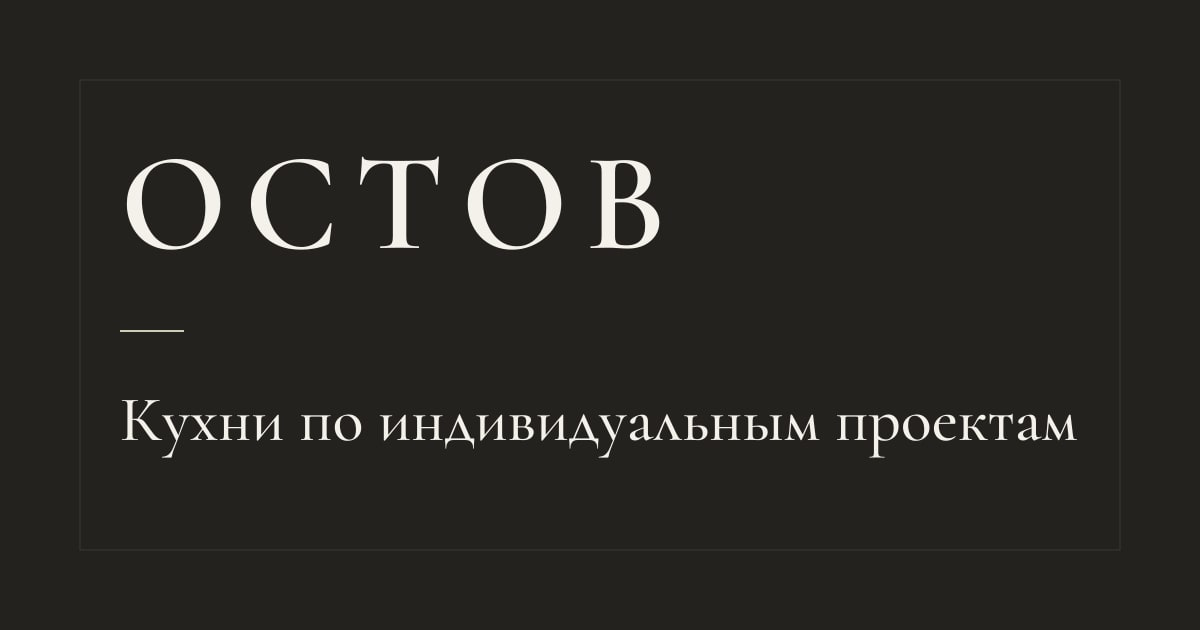
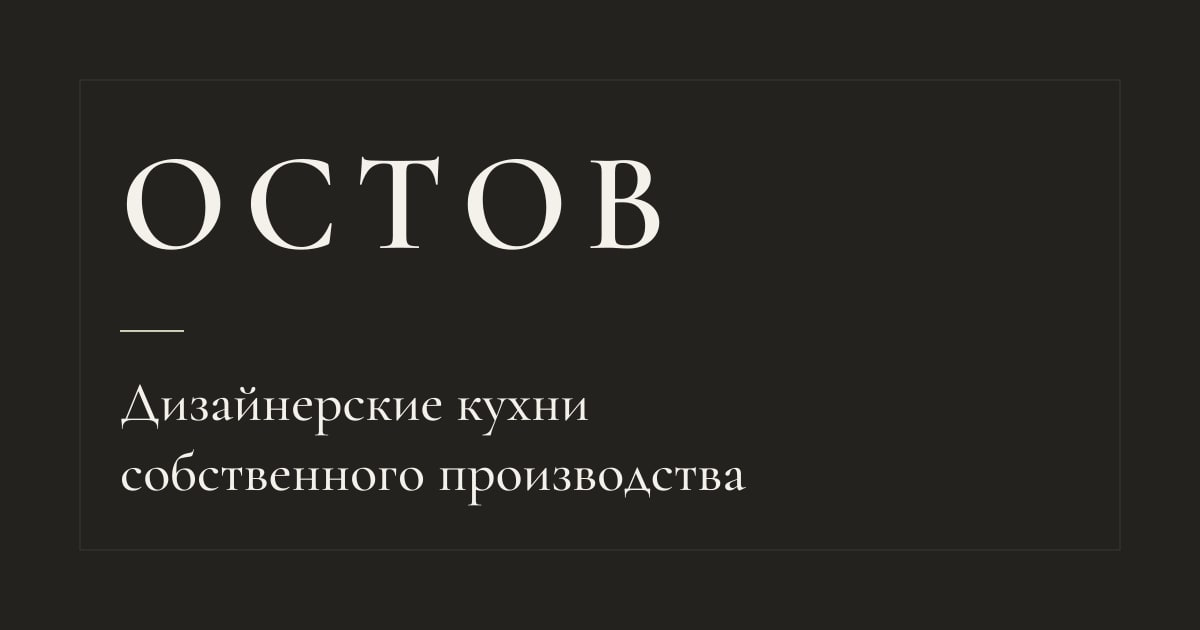
feat: hero headline «Дизайнерские кухни собственного производства»

Changed region(s): [[0.0925, 0.6032, 0.8942, 0.7841]]

diff --git a/src/styles/tokens.css b/src/styles/tokens.css
@@ -24,7 +24,7 @@
   /* Typography */
   --font-serif: 'Cormorant Garamond', 'Times New Roman', Georgia, serif;
   --font-sans: 'Manrope', system-ui, -apple-system, 'Segoe UI', Roboto, Arial, sans-serif;
-  --fs-h1: clamp(2.5rem, min(2.99rem + 4.14vw, 12.8vw - 0.2rem), 6.325rem); /* +15% от прежних 56–88 px; на телефоне ограничен шириной слова «индивидуальным»: 43 px (360), 47 px (390), 80 px (768), 101 px (от ~1390) */
+  --fs-h1: clamp(2.5rem, min(2.99rem + 4.14vw, 16vw - 0.27rem), 6.325rem); /* +15% от прежних 56–88 px; на телефоне ограничен шириной слова «Дизайнерские»: 53 px (360), 58 px (390), 80 px (768), 101 px (от ~1390) */
   --fs-h2: clamp(2.25rem, 1.4rem + 3.45vw, 4.5rem); /* 36 px до 390, 49 на 768, 66 на 1280, 72 от 1440 */
   --fs-h3: clamp(1.375rem, 1.2rem + 0.6vw, 1.75rem); /* 22–28 px */
   --fs-body: clamp(1rem, 0.94rem + 0.25vw, 1.125rem); /* 16–18 px */

diff --git a/tests/unit/i18n.test.ts b/tests/unit/i18n.test.ts
@@ -5,8 +5,8 @@ const flat = (o: object, p = ''): Record<string,string> => Object.entries(o).red
 test('одинаковые ключи', () => expect(Object.keys(flat(en)).sort()).toEqual(Object.keys(flat(ru)).sort()));
 test('нет пустых строк', () => { for (const d of [ru, en]) for (const v of Object.values(flat(d))) expect(v.trim()).not.toBe(''); });
 test('ключевые строки', () => {
-  expect(ru.hero.title).toBe('Кухни по индивидуальным проектам');
-  expect(en.hero.title).toBe('Kitchens made to individual designs');
+  expect(ru.hero.title).toBe('Дизайнерские кухни собственного производства');
+  expect(en.hero.title).toBe('Designer kitchens from our own workshop');
   expect(ru.footer.rights).toBe('© 2026 ООО «Остов». Все права защищены.');
   expect(en.footer.rights).toBe('© 2026 Ostov LLC. All rights reserved.');
 });

diff --git a/src/i18n/ru.ts b/src/i18n/ru.ts
@@ -26,7 +26,7 @@ export const ru: Dict = {
     langEn: 'EN',
   },
   hero: {
-    title: 'Кухни по индивидуальным проектам',
+    title: 'Дизайнерские кухни собственного производства',
     subtitle: 'Собственная мастерская под Калугой. Массив, камень, металл. 12 лет, 240 проектов.',
     cta: 'Обсудить проект',
     secondary: 'Смотреть проекты',

diff --git a/src/i18n/en.ts b/src/i18n/en.ts
@@ -26,7 +26,7 @@ export const en: Dict = {
     langEn: 'EN',
   },
   hero: {
-    title: 'Kitchens made to individual designs',
+    title: 'Designer kitchens from our own workshop',
     subtitle: 'Our own workshop near Kaluga. Solid wood, stone, metal. 12 years, 240 projects.',
     cta: 'Discuss your project',
     secondary: 'See projects',
